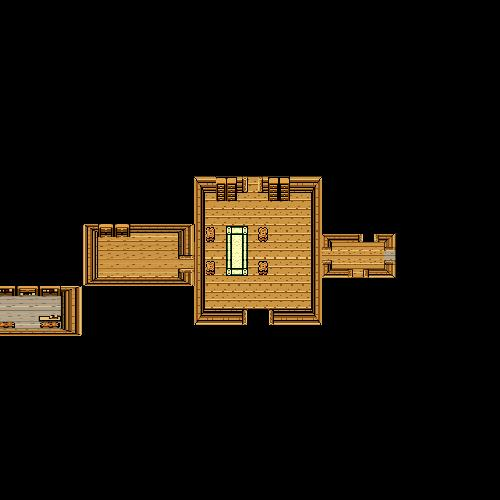
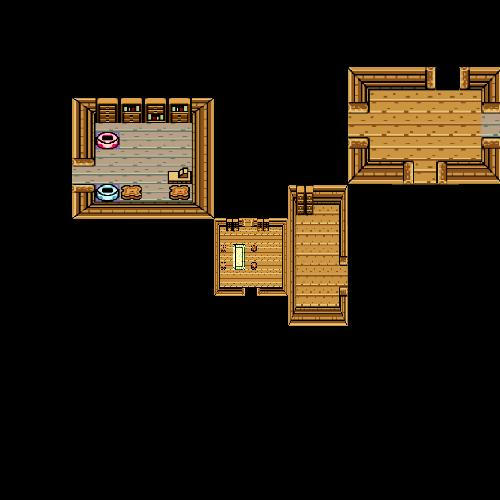
random items in rooms

Changed region(s): [[0.0, 0.12, 1.0, 0.69]]

diff --git a/src/edu/drexel/cs680/proj3/gen/ItemUtils.java b/src/edu/drexel/cs680/proj3/gen/ItemUtils.java
@@ -1,0 +1,66 @@
+package edu.drexel.cs680.proj3.gen;
+
+import java.util.ArrayList;
+import java.util.List;
+import java.util.Random;
+
+import edu.drexel.cs680.proj3.modules.Room;
+
+public class ItemUtils {
+	private static final String key = "<object type=\"item\" id=\"crypt-key\" x=\"%d\" y=\"%d\" synonym = \"key\">"+
+			"<description>A small grey and creepy key</description>"+
+			"<animation action=\"idle\">"+
+				"<frame time=\"100\">crypt-key</frame>"+
+			"</animation>"+
+		"</object>";
+	
+	
+	private static final String silverLocket = "<object type=\"item\" id=\"silver-locket\" x=\"%d\" y=\"%d\" synonym = \"locket\">"+
+				"<description>This must belong to the lady of the house. Wait.. it says Anna. Who is Anna?</description>"+
+				"<animation action=\"idle\">"+
+					"<frame time=\"100\">silver-locket</frame>"+
+				"</animation>"+
+			"</object>";
+	
+	private static final String clippings = "<object type=\"tile\" id=\"clippings\" x=\"608\" y=\"96\" synonym = \"clipping\">"+
+				"<description>Some clipings of the family. I do not see anything interesting at all.</description>"+
+				"<animation action=\"idle\">"+
+					"<frame time=\"100\">clippings</frame>"+
+				"</animation>"+
+			"</object>";			
+	
+	private static final String puzzleBox = "<object type=\"item\" id=\"puzzle-box\" x=\"0\" y=\"64\" synonym = \"box\">"+
+						"<description>Ah! I have no idea. I really need help from someone with this.</description>"+
+						"<animation action=\"idle\">"+
+							"<frame time=\"100\">puzzle-box-closed</frame>"+
+						"</animation>"+
+					"</object>";
+	
+	private static List<String> items;
+	
+	static {
+		items = new ArrayList<String>();
+		items.add(key);
+		items.add(silverLocket);
+		items.add(clippings);
+		items.add(puzzleBox);
+	}
+	
+	
+	public static String getRandomItems(Room room) {
+		StringBuilder randomItems = new StringBuilder();
+		Random r = new Random();
+		
+		int q = r.nextInt(items.size());
+		for (int c=0; c<=q; c++) {
+			int i = r.nextInt(items.size());
+			int x = room.getRandomX();
+			int y = room.getRandomY();
+			randomItems.append(String.format(items.get(i), x, y));
+		}
+		
+		
+		return randomItems.toString();
+	}
+	
+}

diff --git a/src/edu/drexel/cs680/proj3/modules/Item.java b/src/edu/drexel/cs680/proj3/modules/Item.java
@@ -1,0 +1,39 @@
+//package edu.drexel.cs680.proj3.modules;
+//
+//import java.util.List;
+//
+//public class Item {
+//	public String type = "item";
+//	public String id;
+//	public int x,y;
+//	public String synonym;
+//	public String description;
+//	public Animation animation;
+//	
+//	public class Animation {
+//		public String action;
+//		public String frameTime;
+//		public String frame;
+//	}
+//	
+//	/*
+//	 * 			<object type="item" id="crypt-key" x="544" y="64" synonym = "key">
+//					<description>A small grey and creepy key</description>
+//					<animation action="idle">
+//						<frame time="100">crypt-key</frame>
+//					</animation>
+//				</object>
+//	 */
+//	public String toXML(){
+//		StringBuilder str = new StringBuilder();
+//		str.append(String.format("<object type=\"%s\" id=\"%d\" x=\"544\" y=\"64\" synonym = \"key\">"), type, );
+//					str.append(String.format("<description>A small grey and creepy key</description>"));
+//					str.append(String.format("<animation action=\"idle\">"));
+//						str.append(String.format("<frame time=\"100\">crypt-key</frame>"));
+//					str.append(String.format("</animation>"));
+//				str.append(String.format("</object>\")"));
+//		
+//		
+//		return str.toString();
+//	}
+//}

diff --git a/src/edu/drexel/cs680/proj3/modules/Room.java b/src/edu/drexel/cs680/proj3/modules/Room.java
@@ -1,6 +1,5 @@
 package edu.drexel.cs680.proj3.modules;
 
-import java.awt.Point;
 import java.awt.image.BufferedImage;
 import java.io.File;
 import java.io.IOException;
@@ -9,8 +8,11 @@ import java.util.HashMap;
 import java.util.List;
 import java.util.Map;
 import java.util.Map.Entry;
+import java.util.Random;
 
 import javax.imageio.ImageIO;
+
+import edu.drexel.cs680.proj3.gen.ItemUtils;
 
 public class Room {
 	public int center_x, center_y, width, height;
@@ -304,6 +306,20 @@ public class Room {
 		return null;
 	}
 	
+	public int getRandomX() {
+		Random r = new Random();
+		int x = r.nextInt(width);
+		x += getLeftEdge();
+		return x;
+	}
+	
+	public int getRandomY() {
+		Random r = new Random();
+		int y = r.nextInt(height);
+		y += getTopEdge();
+		return y;
+	}
+	
 	public String toXML() {
 		StringBuilder str = new StringBuilder();
 		str.append(String.format("<room id = \"%s\">", name));
@@ -315,6 +331,7 @@ public class Room {
 			str.append(String.format("%s", character()));
 		}
 		str.append(String.format("%s", locations()));
+		str.append(ItemUtils.getRandomItems(this));
 		str.append("</objects>");
 		str.append("</room>");
 		

diff --git a/src/edu/drexel/cs680/proj3/gen/RoomUtils.java b/src/edu/drexel/cs680/proj3/gen/RoomUtils.java
@@ -124,7 +124,7 @@ public class RoomUtils {
 				Room entryRoom =  getEntryRoom();
 				room.neighbors.put(entryRoom, entryDoor);
 			}
-			else if (room.entryRoom) {
+			else if (room.exitRoom) {
 				Door exitDoor = getRandDoor(room);
 				Room exitRoom =  getExitRoom();
 				room.neighbors.put(exitRoom, exitDoor);
